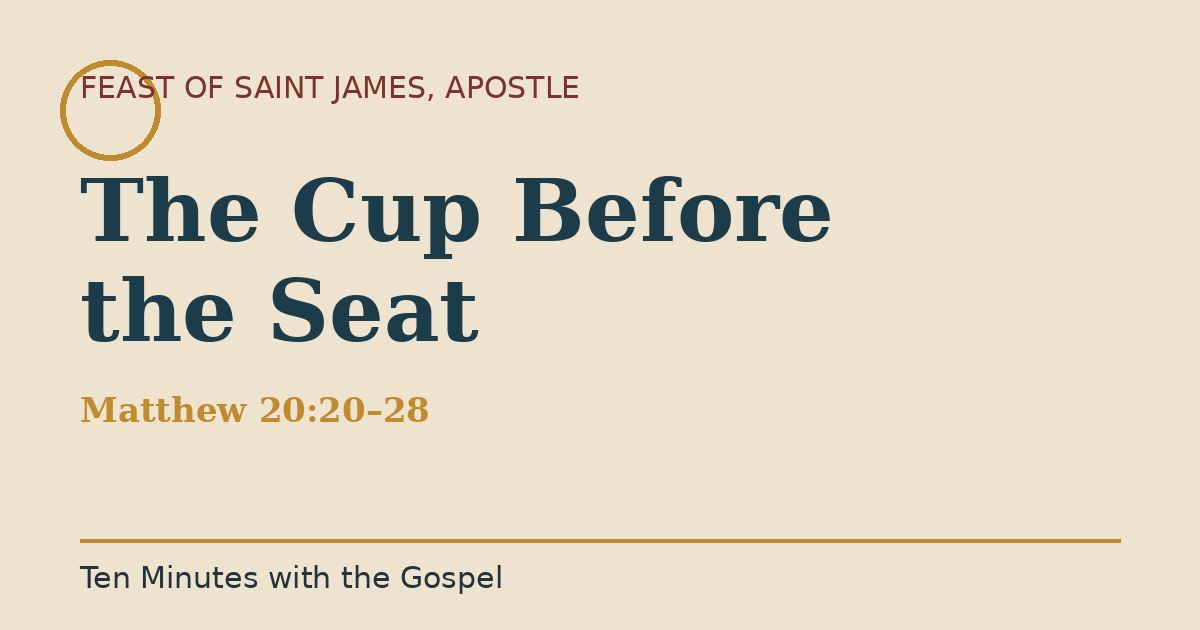
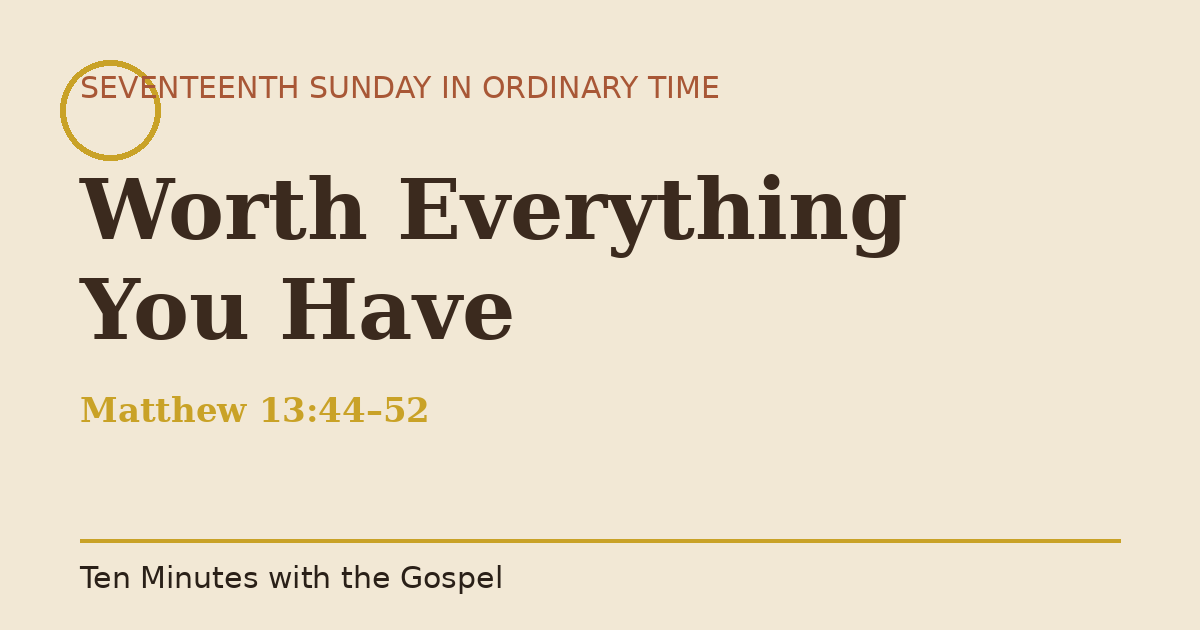
Add files via upload

diff --git a/2026/07/26/index.html b/2026/07/26/index.html
@@ -4,19 +4,19 @@
 <meta charset="UTF-8">
 <meta name="viewport" content="width=device-width, initial-scale=1.0">
 <meta name="color-scheme" content="light">
-<title>The Cup Before the Seat — Ten Minutes with the Gospel</title>
-<meta name="description" content="A reflection on Matthew 20:20-28 for the Feast of Saint James, Apostle: James and John's mother asks for the best seats in the Kingdom — Jesus answers with a question about a cup.">
+<title>Worth Everything You Have — Ten Minutes with the Gospel</title>
+<meta name="description" content="A reflection on Matthew 13:44-52 for the Seventeenth Sunday in Ordinary Time: two short parables about the one discovery worth selling everything for.">
 
 <!-- Open Graph / Twitter -->
 <meta property="og:type" content="website">
-<meta property="og:title" content="The Cup Before the Seat — Ten Minutes with the Gospel">
-<meta property="og:description" content="James and John's mother asks for the best seats in the Kingdom. Jesus answers with a question about a cup. A reflection on Matthew 20:20-28.">
-<meta property="og:image" content="https://allenvincentlucas.github.io/ten-minutes-with-the-gospel/2026/07/25/og-image.png">
-<meta property="og:url" content="https://allenvincentlucas.github.io/ten-minutes-with-the-gospel/2026/07/25/">
+<meta property="og:title" content="Worth Everything You Have — Ten Minutes with the Gospel">
+<meta property="og:description" content="Two short parables about the one discovery worth selling everything for. A reflection on Matthew 13:44-52.">
+<meta property="og:image" content="https://allenvincentlucas.github.io/ten-minutes-with-the-gospel/2026/07/26/og-image.png">
+<meta property="og:url" content="https://allenvincentlucas.github.io/ten-minutes-with-the-gospel/2026/07/26/">
 <meta name="twitter:card" content="summary_large_image">
-<meta name="twitter:title" content="The Cup Before the Seat — Ten Minutes with the Gospel">
-<meta name="twitter:description" content="James and John's mother asks for the best seats in the Kingdom. Jesus answers with a question about a cup. A reflection on Matthew 20:20-28.">
-<meta name="twitter:image" content="https://allenvincentlucas.github.io/ten-minutes-with-the-gospel/2026/07/25/og-image.png">
+<meta name="twitter:title" content="Worth Everything You Have — Ten Minutes with the Gospel">
+<meta name="twitter:description" content="Two short parables about the one discovery worth selling everything for. A reflection on Matthew 13:44-52.">
+<meta name="twitter:image" content="https://allenvincentlucas.github.io/ten-minutes-with-the-gospel/2026/07/26/og-image.png">
 
 <link rel="preconnect" href="https://fonts.googleapis.com">
 <link rel="preconnect" href="https://fonts.gstatic.com" crossorigin>
@@ -28,7 +28,7 @@
 <link rel="apple-touch-icon" href="../../../apple-touch-icon.png">
 <link rel="stylesheet" href="style.css">
 </head>
-<body class="tmg-chrome" style="background:#ede3ce;">
+<body class="tmg-chrome" style="background:#f2e8d5;">
 
 <nav class="tmg-nav">
   <a class="tmg-nav__brand" href="../../../index.html">
@@ -45,7 +45,7 @@
 
 <header class="site-header">
   <div class="wrap">
-    <a class="brand" href="../../../index.html">The Servant's Cup</a>
+    <a class="brand" href="../../../index.html">Worth It All</a>
     <nav class="site-nav">
       <a href="#reading">Reading</a>
       <a href="#reflection">Reflection</a>
@@ -57,76 +57,76 @@
 
 <main>
   <section class="hero wrap">
-    <p class="eyebrow">Feast of Saint James, Apostle</p>
-    <p class="date-line">July 25, 2026</p>
-    <h1>The Cup Before the Seat</h1>
-    <p class="lede">James and John's mother asks for the best seats in the Kingdom. Jesus answers with a question about a cup — because the seat was never really the point.</p>
-    <p class="citation-pull">Matthew 20:20&ndash;28</p>
+    <p class="eyebrow">Seventeenth Sunday in Ordinary Time</p>
+    <p class="date-line">July 26, 2026</p>
+    <h1>Worth Everything You Have</h1>
+    <p class="lede">A buried treasure. A single pearl. Two tiny stories that both end the same way: someone lets go of everything else, and doesn't look back.</p>
+    <p class="citation-pull">Matthew 13:44&ndash;52</p>
 
     <div class="hero-art">
-      <svg viewBox="0 0 320 260" xmlns="http://www.w3.org/2000/svg" role="img" aria-label="A scallop shell above a simple road curving toward a rising light">
-        <path d="M20 230 C 90 190, 230 190, 300 230" fill="none" stroke="var(--gold)" stroke-width="3" stroke-linecap="round"/>
-        <path d="M60 220 C 110 200, 210 200, 260 220" fill="none" stroke="var(--gold)" stroke-width="2" stroke-linecap="round" opacity="0.6"/>
-        <g transform="translate(160,120)">
-          <path d="M0 60 C -55 60 -70 -10 -38 -55 C -22 -75 22 -75 38 -55 C 70 -10 55 60 0 60 Z" fill="var(--cream)" stroke="var(--ink)" stroke-width="2.5"/>
-          <path d="M0 55 L 0 -60" stroke="var(--ink)" stroke-width="1.5" opacity="0.55"/>
-          <path d="M-14 52 L -22 -45" stroke="var(--ink)" stroke-width="1.5" opacity="0.45"/>
-          <path d="M14 52 L 22 -45" stroke="var(--ink)" stroke-width="1.5" opacity="0.45"/>
-          <path d="M-27 40 L -33 -25" stroke="var(--ink)" stroke-width="1.5" opacity="0.35"/>
-          <path d="M27 40 L 33 -25" stroke="var(--ink)" stroke-width="1.5" opacity="0.35"/>
+      <svg viewBox="0 0 320 240" xmlns="http://www.w3.org/2000/svg" role="img" aria-label="A plowed field with a glinting buried treasure and a single pearl beside it">
+        <g stroke="var(--loam)" stroke-width="3" fill="none" opacity="0.8" stroke-linecap="round">
+          <path d="M20 200 Q 160 180, 300 200"/>
+          <path d="M20 215 Q 160 195, 300 215"/>
+          <path d="M20 230 Q 160 210, 300 230"/>
         </g>
-        <circle cx="160" cy="40" r="16" fill="var(--gold)" opacity="0.9"/>
-        <g stroke="var(--gold)" stroke-width="2" opacity="0.7" stroke-linecap="round">
-          <line x1="160" y1="8" x2="160" y2="-4"/>
-          <line x1="184" y1="18" x2="193" y2="9"/>
-          <line x1="136" y1="18" x2="127" y2="9"/>
+        <g transform="translate(150,150)">
+          <rect x="-34" y="-6" width="68" height="34" rx="4" fill="var(--clay)" stroke="var(--loam)" stroke-width="3"/>
+          <rect x="-34" y="-16" width="68" height="14" rx="4" fill="var(--clay)" stroke="var(--loam)" stroke-width="3"/>
+          <circle cx="0" cy="0" r="7" fill="var(--gold)"/>
         </g>
+        <g stroke="var(--gold)" stroke-width="2" opacity="0.85" stroke-linecap="round">
+          <line x1="150" y1="-40" x2="150" y2="-58"/>
+          <line x1="128" y1="-30" x2="112" y2="-44"/>
+          <line x1="172" y1="-30" x2="188" y2="-44"/>
+        </g>
+        <circle cx="230" cy="90" r="14" fill="var(--pearl)" stroke="var(--loam)" stroke-width="2"/>
       </svg>
     </div>
   </section>
 
   <div class="wrap divider">
     <svg viewBox="0 0 700 24" width="100%" height="24" aria-hidden="true">
-      <line x1="0" y1="12" x2="260" y2="12" stroke="#C08A2E" stroke-width="2"/>
-      <circle cx="290" cy="12" r="6" fill="#C08A2E"/>
-      <circle cx="350" cy="12" r="4" fill="#7A342B"/>
-      <circle cx="410" cy="12" r="6" fill="#C08A2E"/>
-      <line x1="440" y1="12" x2="700" y2="12" stroke="#C08A2E" stroke-width="2"/>
+      <line x1="0" y1="12" x2="260" y2="12" stroke="#C9A227" stroke-width="2"/>
+      <circle cx="290" cy="12" r="6" fill="#C9A227"/>
+      <circle cx="350" cy="12" r="4" fill="#A85736"/>
+      <circle cx="410" cy="12" r="6" fill="#C9A227"/>
+      <line x1="440" y1="12" x2="700" y2="12" stroke="#C9A227" stroke-width="2"/>
     </svg>
   </div>
 
   <section class="block wrap" id="reading">
     <h2><span class="glyph">&#9878;</span>The Gospel Reading</h2>
     <div class="reading-card">
-      <p>Then came to him the mother of the sons of Zebedee with her sons, adoring and asking something of him.</p>
-      <p>Who said to her: What wilt thou? She saith to him: Say that these my two sons may sit, the one on thy right hand, and the other on thy left, in thy kingdom.</p>
-      <p>And Jesus answering, said: You know not what you ask. Can you drink the chalice that I shall drink? They say to him: We can.</p>
-      <p>He saith to them: My chalice indeed you shall drink; but to sit on my right or left hand, is not mine to give to you, but to them for whom it is prepared by my Father.</p>
-      <p>And the ten hearing it, were moved with indignation against the two brethren.</p>
-      <p>But Jesus called them to him, and said: You know that the princes of the Gentiles lord it over them; and they that are the greater, exercise power upon them.</p>
-      <p>It shall not be so among you: but whosoever will be the greater among you, let him be your minister:</p>
-      <p>And he that will be first among you, shall be your servant.</p>
-      <p>Even as the Son of man is not come to be ministered unto, but to minister, and to give his life a redemption for many.</p>
-      <p style="font-size:0.85rem; color:#6f6045; margin-top:1rem;">Matthew 20:20&ndash;28, Douay&ndash;Rheims (Challoner revision)</p>
+      <p>The kingdom of heaven is like unto a treasure hidden in a field. Which a man having found, hid it, and for joy thereof goeth, and selleth all that he hath, and buyeth that field.</p>
+      <p>Again the kingdom of heaven is like to a merchant seeking good pearls.</p>
+      <p>Who when he had found one pearl of great price, went his way, and sold all that he had, and bought it.</p>
+      <p>Again the kingdom of heaven is like to a net cast into the sea, and gathering together of all kind of fishes.</p>
+      <p>Which, when it was filled, they drew out, and sitting by the shore, they chose out the good into vessels, but the bad they cast forth.</p>
+      <p>So shall it be at the end of the world. The angels shall go out, and shall separate the wicked from among the just.</p>
+      <p>And shall cast them into the furnace of fire: there shall be weeping and gnashing of teeth.</p>
+      <p>Have ye understood all these things? They say to him: Yes.</p>
+      <p>He said unto them: Therefore every scribe instructed in the kingdom of heaven, is like to a man that is a householder, who bringeth forth out of his treasure new things and old.</p>
+      <p style="font-size:0.85rem; color:#6f6045; margin-top:1rem;">Matthew 13:44&ndash;52, Douay&ndash;Rheims (Challoner revision)</p>
 
       <div class="translation-note">
-        <p><strong>A note on translation:</strong> this page uses the Douay&ndash;Rheims text because it's in the public domain and safe to reproduce in full. The Mass reading for today uses the NABRE translation — read the official text at <a href="https://bible.usccb.org/bible/readings/072526.cfm" target="_blank" rel="noopener">USCCB's Daily Readings</a>. If you were hoping for a different modern translation (RSVCE, NIV, and so on), those are copyrighted too, and aren't reproduced here either.</p>
+        <p><strong>A note on translation:</strong> this page uses the Douay&ndash;Rheims text because it's in the public domain and safe to reproduce in full. The Mass reading for today uses the NABRE translation — read the official text at <a href="https://bible.usccb.org/bible/readings/072626.cfm" target="_blank" rel="noopener">USCCB's Daily Readings</a>. If you were hoping for a different modern translation (RSVCE, NIV, and so on), those are copyrighted too, and aren't reproduced here either.</p>
       </div>
     </div>
   </section>
 
   <section class="block wrap" id="reflection">
     <h2><span class="glyph">&#9878;</span>Reflection</h2>
-    <p>A mother asks Jesus for the one thing every parent wants for their kids: the best seat, the sure future, the guaranteed spot. Jesus doesn't scold her for asking. He just asks back: can James and John actually drink what he's about to drink? They say yes before they understand the question. The other ten disciples get angry — not because the request was wrong, but because they wanted it too.</p>
-    <p>Jesus gathers all twelve and resets the whole conversation: greatness here isn't measured by the seat you land, it's measured by what you're willing to pour out for other people. He doesn't rebuke the ambition. He redirects it — toward the cup, not the chair.</p>
+    <p>Neither man in these parables sets out to give up everything. The first one is just plowing someone else's field and stumbles onto a treasure he wasn't looking for. The second has been searching for pearls his whole career and finally finds the one that makes every other pearl look ordinary. Different paths, same ending: once they see what they've found, the rest of what they own stops mattering.</p>
+    <p>Nobody in the story feels like they sacrificed anything. Jesus says twice that the man acts "for joy" — this isn't grim renunciation, it's someone who finally got the math right.</p>
 
     <div class="scenario-box">
-      <p><strong>A familiar version of this:</strong> two people are up for the same promotion. One spends the quarter angling for visibility — copying the right people on emails, volunteering for the projects a director will notice. The other quietly takes on the account nobody wants, covers for a teammate's family emergency without keeping score, and never mentions it in a meeting.</p>
-      <p>Only one of them is chasing the title. The Gospel today doesn't say the first person is evil — Jesus never rebukes James and John's mother. It just points out that the seat was never really the goal worth chasing.</p>
+      <p><strong>A familiar version of this:</strong> a nurse picks up every overtime shift she can get — good money, and it never feels wrong to take it. Then a friend asks her to sit with hospice patients on Wednesday nights, just an hour, just to be present while someone dies without their family in the room.</p>
+      <p>She goes once. She doesn't go back to her old schedule the same person. The overtime is still available. It's just quietly stopped being the thing she organizes her week around. Nobody told her to choose; she just finally saw what she'd found.</p>
     </div>
 
     <div class="question-callout">
-      Where in your life are you angling for the seat, when what's actually being asked of you is the cup?
+      What have you already found that's worth reorganizing your life around — and what are you still holding onto instead?
     </div>
   </section>
 
@@ -134,14 +134,14 @@
     <h2><span class="glyph">&#9878;</span>Watch &amp; Listen</h2>
     <div class="video-grid">
       <div class="video-card">
-        <iframe src="https://www.youtube.com/embed/qiS_s-riaCg" title="I'll Never Forget What My Ex-Girlfriend Told Me — Fr. Mike Schmitz, Ascension Presents" allowfullscreen loading="lazy"></iframe>
-        <p class="credit"><strong>I'll Never Forget What My Ex-Girlfriend Told Me</strong> &mdash; Fr. Mike Schmitz, Ascension Presents</p>
-        <p class="note">On responding to jealousy when someone else gets chosen instead of you — the same reaction the ten disciples have to James and John.</p>
+        <iframe src="https://www.youtube.com/embed/cRAPuHWBjfE" title="If You're Too Busy, You're in Danger of This Grave Mistake — Fr. Mike Schmitz, Ascension Presents" allowfullscreen loading="lazy"></iframe>
+        <p class="credit"><strong>If You're Too Busy, You're in Danger of This Grave Mistake</strong> &mdash; Fr. Mike Schmitz, Ascension Presents</p>
+        <p class="note">No homily on this exact passage was found for this date, so this well-matched reflection on not filling your life even with good things stands in for it — the same instinct behind selling everything for the one pearl.</p>
       </div>
       <div class="video-card">
-        <iframe src="https://www.youtube.com/embed/vsBCCz3Y7_w" title="The Servant Song — performed by David Haas" allowfullscreen loading="lazy"></iframe>
-        <p class="credit"><strong>The Servant Song</strong> &mdash; written by Richard Gillard, performed by David Haas</p>
-        <p class="note">Gillard wrote it directly from Christ's words in this Gospel: greatness as service, not status.</p>
+        <iframe src="https://www.youtube.com/embed/2YkrpwawuGU" title="Seek Ye First the Kingdom of God" allowfullscreen loading="lazy"></iframe>
+        <p class="credit"><strong>Seek Ye First</strong> &mdash; written by Karen Lafferty (1971)</p>
+        <p class="note">Straight out of Matthew 6:33's "seek first the kingdom" — it's actually the hymn most lectionaries recommend for this very Sunday.</p>
       </div>
     </div>
   </section>
@@ -150,23 +150,20 @@
     <h2><span class="glyph">&#9878;</span>Catechism Cross-References</h2>
 
     <div class="ccc-card">
-      <p><span class="num">CCC 786</span> The Church shares in Christ's kingship the same way he exercised it: not by ruling over people, but by serving them — "to reign is to serve." Read the source at the <a href="https://www.vatican.va/content/catechism/en/part_one/section_two/chapter_three/article_9/paragraph_2_the_church_-_people_of_god,_body_of_christ,_temple_of_the_holy_spirit.html" target="_blank" rel="noopener">Vatican's official Catechism text</a>.</p>
+      <p><span class="num">CCC 546</span> Jesus' parables always come with a demand: to gain the kingdom, words aren't enough — a person has to actually give up something to have it. Read the source at the <a href="https://www.vatican.va/archive/ENG0015/__P1L.HTM" target="_blank" rel="noopener">Vatican's official Catechism text</a>.</p>
     </div>
     <div class="ccc-card">
-      <p><span class="num">CCC 622</span> Christ's whole redemptive mission is summed up in the last line of today's Gospel: he gave his life as a ransom, a total pouring-out for others. Read the source at the <a href="https://www.vatican.va/archive/ENG0015/__P1O.HTM" target="_blank" rel="noopener">Vatican's official Catechism text</a>.</p>
-    </div>
-    <div class="ccc-card">
-      <p><span class="num">CCC 2235</span> The Church applies this same standard to anyone who holds authority at all: real authority is measured by service, never by status. Read the source at the <a href="https://www.vatican.va/content/catechism/en/part_three/section_two/chapter_two/article_4/v_the_authorities_in_civil_society.html" target="_blank" rel="noopener">Vatican's official Catechism text</a>.</p>
+      <p><span class="num">CCC 1039</span> The parable of the net looks ahead to the Last Judgment, when the truth of every person's life — the good done and the good left undone — is finally laid bare. Read the source at the <a href="https://www.vatican.va/content/catechism/en/part_one/section_two/chapter_three/article_12/v_the_last_judgment.html" target="_blank" rel="noopener">Vatican's official Catechism text</a>.</p>
     </div>
 
-    <p class="ccc-callout">For more cross-references tied to this passage, search it yourself using <a href="https://www.catholiccrossreference.online/catechism/#!/search/Matt%2020%3A20-28" target="_blank" rel="noopener">Catholic Cross Reference's Catechism search tool</a> &mdash; a resource worth keeping open well beyond today's reading.</p>
+    <p class="ccc-callout">For more cross-references tied to this passage, search it yourself using <a href="https://www.catholiccrossreference.online/catechism/#!/search/Matt%2013%3A44-52%20or%2013%3A44-46" target="_blank" rel="noopener">Catholic Cross Reference's Catechism search tool</a> &mdash; a resource worth keeping open well beyond today's reading.</p>
   </section>
 
   <section class="block wrap closing-prayer">
     <h2>Closing Prayer</h2>
-    <p>Lord, I don't always know what I'm asking for when I ask you for more. Teach me to want the cup as much as I want the seat — to measure my days by what I gave away, not by where I ended up sitting. Saint James, apostle who learned this the hard way, pray for me. Amen.</p>
+    <p>Lord, let me see it when I find it. Don't let me walk past the one thing that matters because my hands are already full of smaller things. Give me the joy those two men had — not the grit of giving something up, but the relief of finally knowing what to hold onto. Amen.</p>
     <div class="cta-row">
-      <a href="https://bible.usccb.org/bible/readings/072526.cfm" target="_blank" rel="noopener">Read Today's Full Mass Readings</a>
+      <a href="https://bible.usccb.org/bible/readings/072626.cfm" target="_blank" rel="noopener">Read Today's Full Mass Readings</a>
       <a class="secondary" href="../index.html">More Reflections This Month</a>
     </div>
   </section>

diff --git a/2026/07/26/style.css b/2026/07/26/style.css
@@ -1,25 +1,23 @@
 /* ============================================================
-   "The Cup Before the Seat" — July 25, 2026
-   Feast of Saint James, Apostle
-   Matthew 20:20-28 — The Sons of Zebedee
-   Palette: Pilgrim's Cup
+   "Worth Everything You Have" — July 26, 2026
+   Seventeenth Sunday in Ordinary Time
+   Matthew 13:44-52 — Treasure, Pearl, and Net
+   Palette: Buried Treasure
    ============================================================ */
 
-@import url('https://fonts.googleapis.com/css2?family=Fraunces:opsz,wght@9..144,400;9..144,500;9..144,600;9..144,700&family=Karla:wght@400;600;700;800&display=swap');
+@import url('https://fonts.googleapis.com/css2?family=Bitter:opsz,wght@12..96,400;12..96,500;12..96,700&family=Nunito+Sans:wght@400;600;800&display=swap');
 
 :root {
-  --cream: #ede3ce;
-  --ink: #1d3c4a;
-  --ink-deep: #14293350;
-  --gold: #c08a2e;
-  --leaf-green: #45604a;
-  --thorn-grey: #6b7059;
-  --rust: #7a342b;
-  --card: #f8f2e4;
-  --line: rgba(29, 60, 74, 0.16);
+  --pearl: #f6f1e7;
+  --loam: #3b2a1e;
+  --gold: #c9a227;
+  --leaf-green: #2f5d62;
+  --clay: #a85736;
+  --card: #f6f1e7;
+  --line: rgba(59, 42, 30, 0.16);
 
-  --font-display: 'Fraunces', Georgia, serif;
-  --font-body: 'Karla', -apple-system, sans-serif;
+  --font-display: 'Bitter', Georgia, serif;
+  --font-body: 'Nunito Sans', -apple-system, sans-serif;
 }
 
 * { box-sizing: border-box; }
@@ -27,17 +25,16 @@ html { color-scheme: light; }
 
 body {
   margin: 0;
-  background: #ede3ce;
-  background: var(--cream);
-  color: #24333b;
-  color: var(--ink);
+  background: #f2e8d5;
+  color: #2a2018;
+  color: var(--loam);
   font-family: var(--font-body);
   line-height: 1.65;
   -webkit-font-smoothing: antialiased;
 }
 
 img, svg { max-width: 100%; display: block; }
-a { color: var(--rust); text-decoration-thickness: 1.5px; text-underline-offset: 2px; }
+a { color: var(--clay); text-decoration-thickness: 1.5px; text-underline-offset: 2px; }
 a:hover { color: var(--gold); }
 
 .wrap { max-width: 780px; margin: 0 auto; padding: 0 1.5rem; }
@@ -45,7 +42,7 @@ a:hover { color: var(--gold); }
 /* ---------- Header (this day's own secondary bar, below the shared site nav) ---------- */
 .site-header { padding: 1.1rem 0; border-bottom: 1px solid var(--line); }
 .site-header .wrap { display: flex; align-items: center; justify-content: space-between; gap: 1rem; flex-wrap: wrap; }
-.brand { font-family: var(--font-display); font-weight: 600; font-size: 1.05rem; color: var(--ink); text-decoration: none; }
+.brand { font-family: var(--font-display); font-weight: 700; font-size: 1.05rem; color: var(--loam); text-decoration: none; }
 .site-nav { display: flex; gap: 1.25rem; font-size: 0.92rem; }
 .site-nav a { color: var(--leaf-green); font-weight: 700; }
 
@@ -53,22 +50,22 @@ a:hover { color: var(--gold); }
 .hero { padding: 3.2rem 0 2.2rem; }
 .eyebrow {
   font-weight: 800; letter-spacing: 0.14em; text-transform: uppercase;
-  font-size: 0.78rem; color: var(--rust); margin: 0 0 0.35rem;
+  font-size: 0.78rem; color: var(--clay); margin: 0 0 0.35rem;
 }
 .date-line {
   font-weight: 600;
   font-size: 0.9rem;
-  color: #56504a;
+  color: #6f6045;
   margin: 0 0 0.9rem;
 }
 .hero h1 {
   font-family: var(--font-display); font-weight: 700;
-  font-size: clamp(2.1rem, 5vw, 3rem); line-height: 1.12; margin: 0 0 1rem; color: var(--ink);
+  font-size: clamp(2.1rem, 5vw, 3rem); line-height: 1.12; margin: 0 0 1rem; color: var(--loam);
 }
-.lede { font-size: 1.15rem; max-width: 54ch; color: #3a4a52; margin: 0 0 1.6rem; }
+.lede { font-size: 1.15rem; max-width: 54ch; color: #4a3a2a; margin: 0 0 1.6rem; }
 .citation-pull {
   display: inline-block; font-family: var(--font-display); font-style: italic; font-size: 1.05rem;
-  color: var(--rust); border-left: 3px solid var(--gold); padding: 0.3rem 0 0.3rem 0.9rem; margin-bottom: 2.2rem;
+  color: var(--leaf-green); border-left: 3px solid var(--gold); padding: 0.3rem 0 0.3rem 0.9rem; margin-bottom: 2.2rem;
 }
 .hero-art { margin: 0 auto; max-width: 280px; }
 
@@ -76,65 +73,66 @@ a:hover { color: var(--gold); }
 
 section.block { padding: 2.6rem 0; border-top: 1px solid var(--line); }
 section.block h2 {
-  font-family: var(--font-display); font-weight: 600; font-size: 1.55rem; margin: 0 0 1.2rem; color: var(--ink);
+  font-family: var(--font-display); font-weight: 700; font-size: 1.55rem; margin: 0 0 1.2rem; color: var(--loam);
 }
 section.block h2 .glyph { color: var(--gold); margin-right: 0.5rem; }
 
 /* ---------- Gospel reading ---------- */
 .reading-card {
   background: var(--card); border-radius: 14px; padding: 1.8rem 1.9rem;
-  font-family: var(--font-display); font-size: 1.05rem; color: var(--ink);
+  font-family: var(--font-display); font-size: 1.05rem; color: var(--loam);
+  border: 1px solid var(--line);
 }
 .reading-card p { margin: 0 0 1rem; }
 .reading-card p:last-of-type { margin-bottom: 0; }
 .translation-note {
   margin-top: 1.4rem; padding-top: 1.2rem; border-top: 1px dashed var(--line);
-  font-family: var(--font-body); font-size: 0.92rem; color: #5a4d3e;
+  font-family: var(--font-body); font-size: 0.92rem; color: #5a4632;
 }
-.translation-note strong { color: var(--ink); }
+.translation-note strong { color: var(--loam); }
 
 /* ---------- Reflection ---------- */
 .scenario-box {
-  background: #fff; border: 1px solid var(--line); border-left: 4px solid var(--rust);
+  background: #fff; border: 1px solid var(--line); border-left: 4px solid var(--leaf-green);
   border-radius: 10px; padding: 1.4rem 1.6rem; margin: 1.4rem 0;
 }
 .scenario-box p:first-child { margin-top: 0; }
 .scenario-box p:last-child { margin-bottom: 0; }
 .question-callout {
-  background: var(--ink); color: var(--cream); border-radius: 10px; padding: 1.5rem 1.7rem;
+  background: var(--leaf-green); color: var(--pearl); border-radius: 10px; padding: 1.5rem 1.7rem;
   font-family: var(--font-display); font-size: 1.2rem; font-style: italic; margin-top: 1.6rem;
 }
 
 /* ---------- Video grid ---------- */
 .video-grid { display: grid; grid-template-columns: 1fr; gap: 1.8rem; }
 .video-card iframe { width: 100%; aspect-ratio: 16/9; border: 0; border-radius: 12px; }
-.video-card .credit { margin-top: 0.6rem; font-size: 0.92rem; color: #5a4d3e; }
-.video-card .credit strong { color: var(--ink); }
+.video-card .credit { margin-top: 0.6rem; font-size: 0.92rem; color: #5a4632; }
+.video-card .credit strong { color: var(--loam); }
 .video-card .note { font-size: 0.9rem; color: var(--leaf-green); margin-top: 0.3rem; }
 
 /* ---------- Catechism ---------- */
-.ccc-card { background: var(--card); border-radius: 12px; padding: 1.2rem 1.5rem; margin-bottom: 1rem; }
-.ccc-card .num { font-family: var(--font-display); font-weight: 700; color: var(--rust); margin-right: 0.4rem; }
+.ccc-card { background: var(--card); border: 1px solid var(--line); border-radius: 12px; padding: 1.2rem 1.5rem; margin-bottom: 1rem; }
+.ccc-card .num { font-family: var(--font-display); font-weight: 700; color: var(--clay); margin-right: 0.4rem; }
 .ccc-callout { margin-top: 1.4rem; font-size: 0.95rem; }
 
 /* ---------- Closing ---------- */
 .closing-prayer {
-  background: linear-gradient(180deg, var(--gold) 0%, #8a5f22 100%);
-  color: #2b1d05; border-radius: 16px; padding: 2rem 2rem 2.2rem;
+  background: linear-gradient(180deg, var(--gold) 0%, #8a6a1c 100%);
+  color: #2b2003; border-radius: 16px; padding: 2rem 2rem 2.2rem;
   text-align: center;
 }
-.closing-prayer h2 { color: #2b1d05; }
+.closing-prayer h2 { color: #2b2003; }
 .closing-prayer p { font-family: var(--font-display); font-size: 1.1rem; font-style: italic; max-width: 56ch; margin-left: auto; margin-right: auto; }
 .cta-row { display: flex; gap: 0.9rem; flex-wrap: wrap; margin-top: 1.4rem; justify-content: center; }
 .cta-row a {
-  display: inline-block; background: var(--ink); color: var(--cream); padding: 0.65rem 1.2rem;
+  display: inline-block; background: var(--loam); color: var(--pearl); padding: 0.65rem 1.2rem;
   border-radius: 999px; font-weight: 700; font-size: 0.9rem; text-decoration: none;
 }
-.cta-row a.secondary { background: transparent; color: var(--ink); border: 1.5px solid var(--ink); }
+.cta-row a.secondary { background: transparent; color: var(--loam); border: 1.5px solid var(--loam); }
 
 /* ---------- Footer ---------- */
 .site-footer {
-  padding: 2.4rem 0 3.5rem; font-size: 0.85rem; color: #56504a; border-top: 1px solid var(--line); margin-top: 1rem;
+  padding: 2.4rem 0 3.5rem; font-size: 0.85rem; color: #6f6045; border-top: 1px solid var(--line); margin-top: 1rem;
 }
 .site-footer p { margin: 0 0 0.6rem; }
 